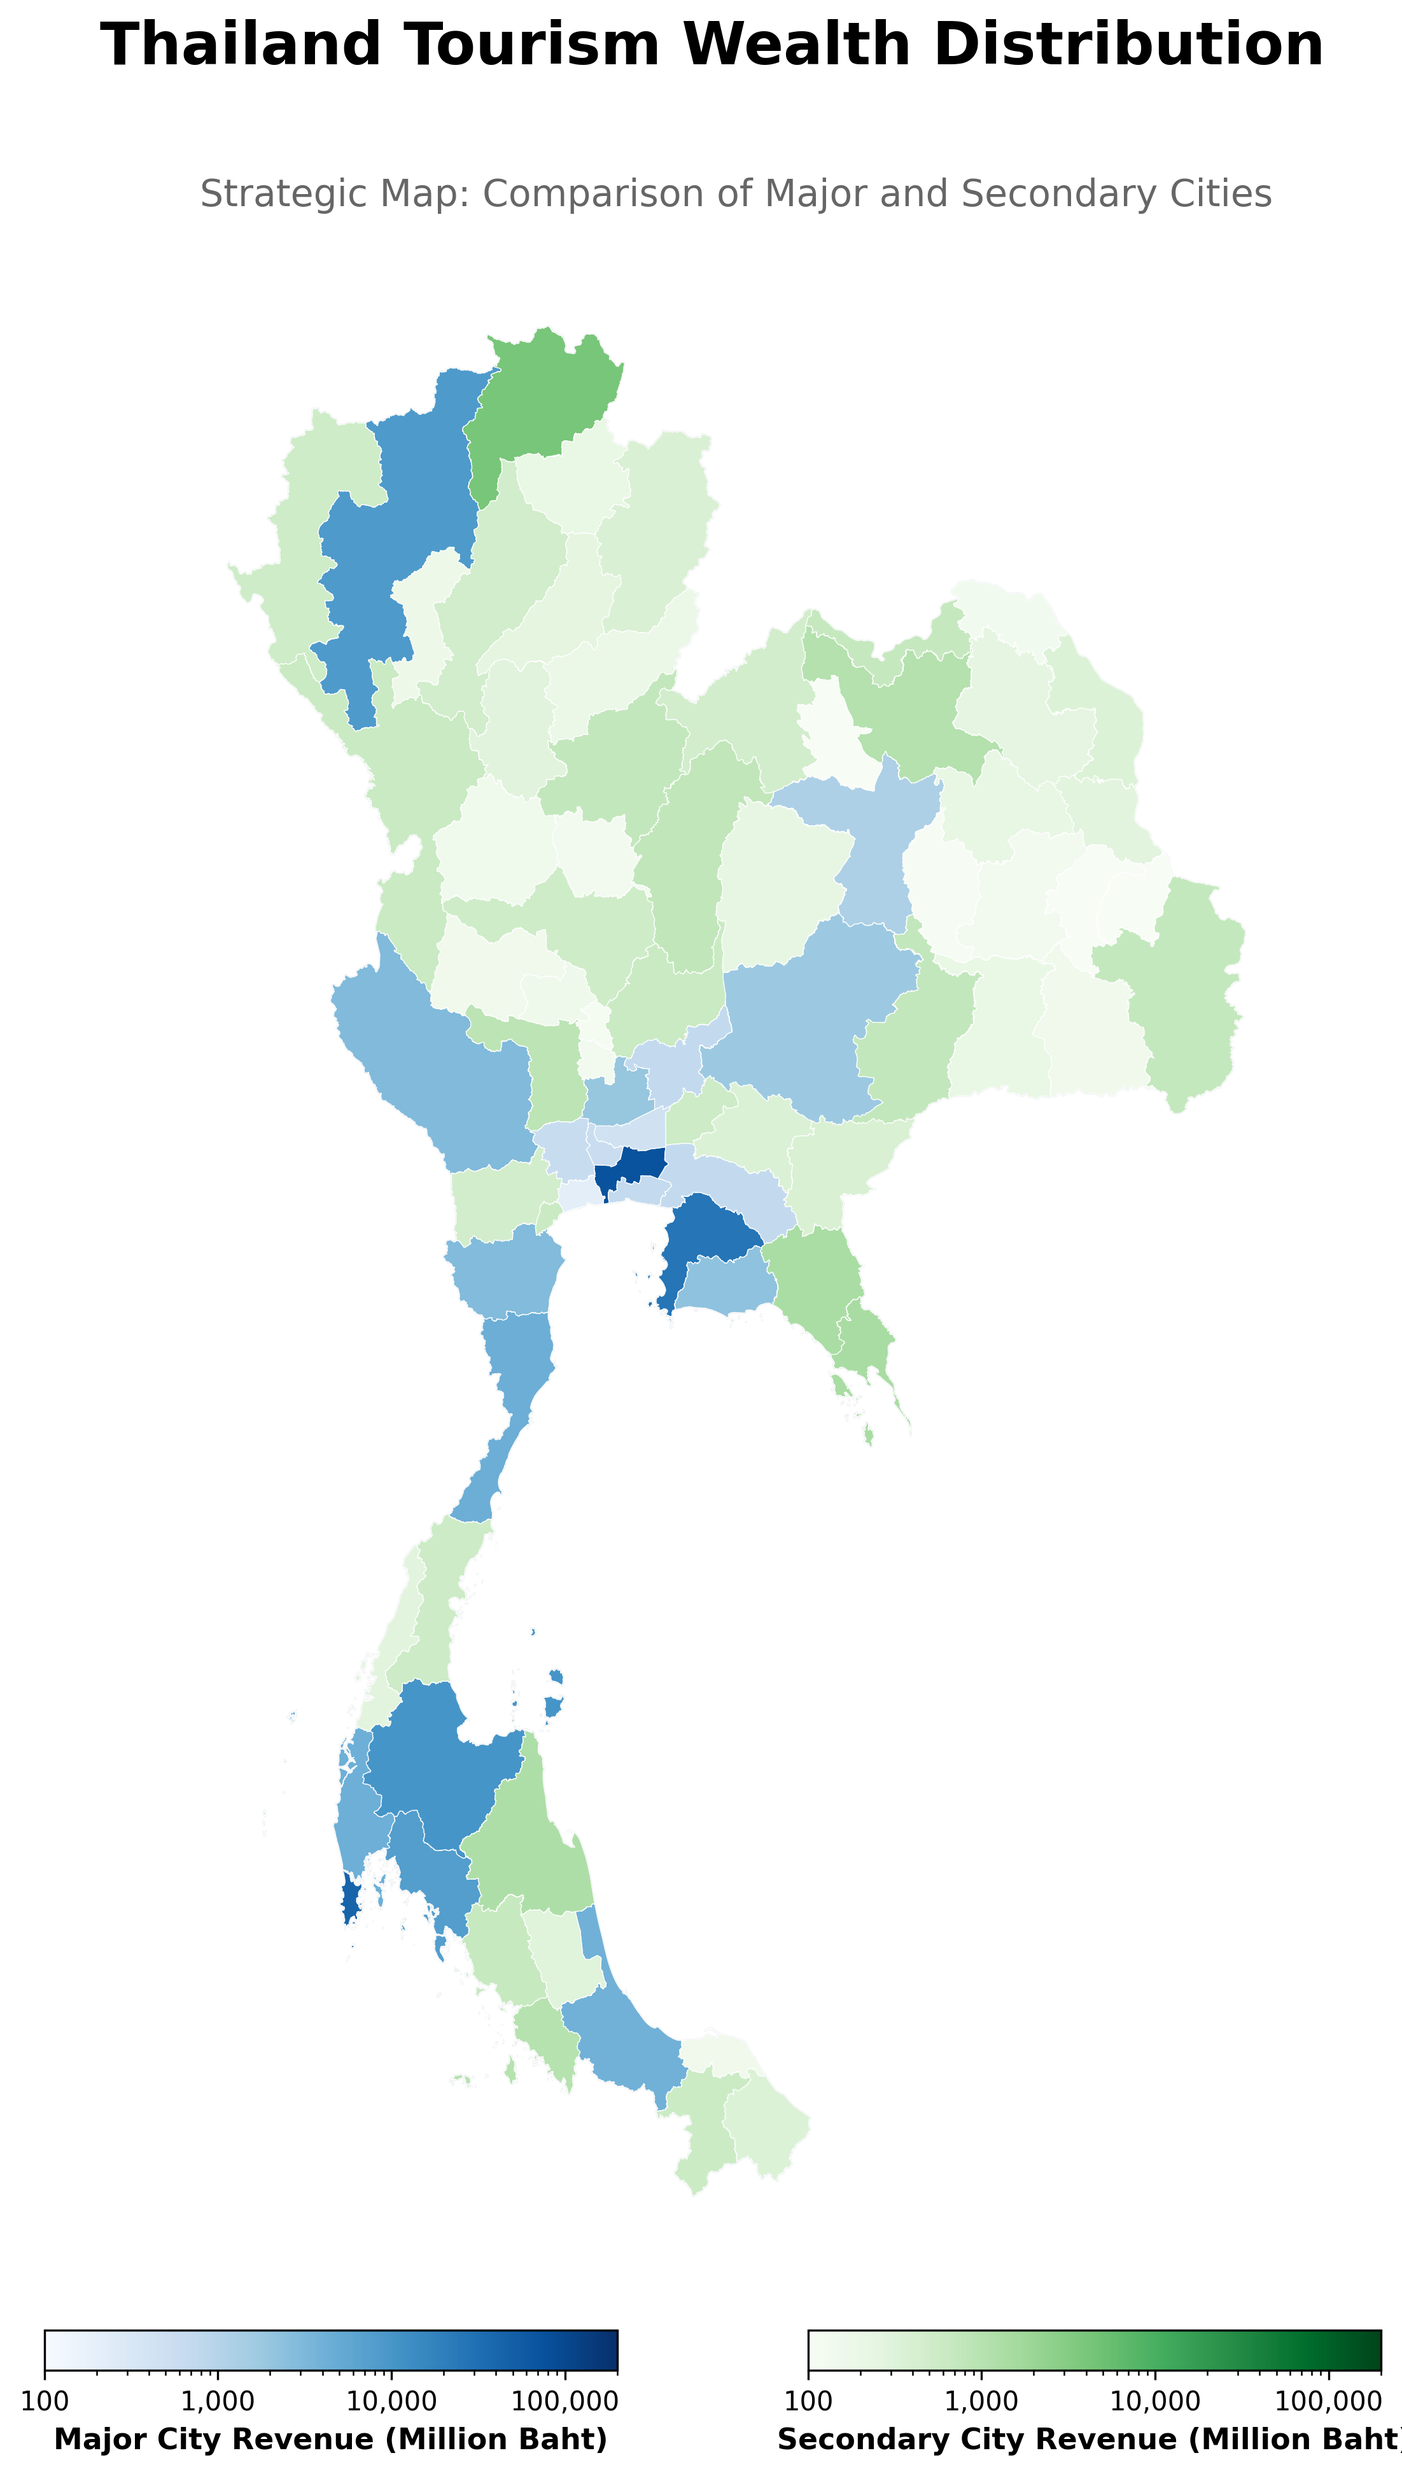
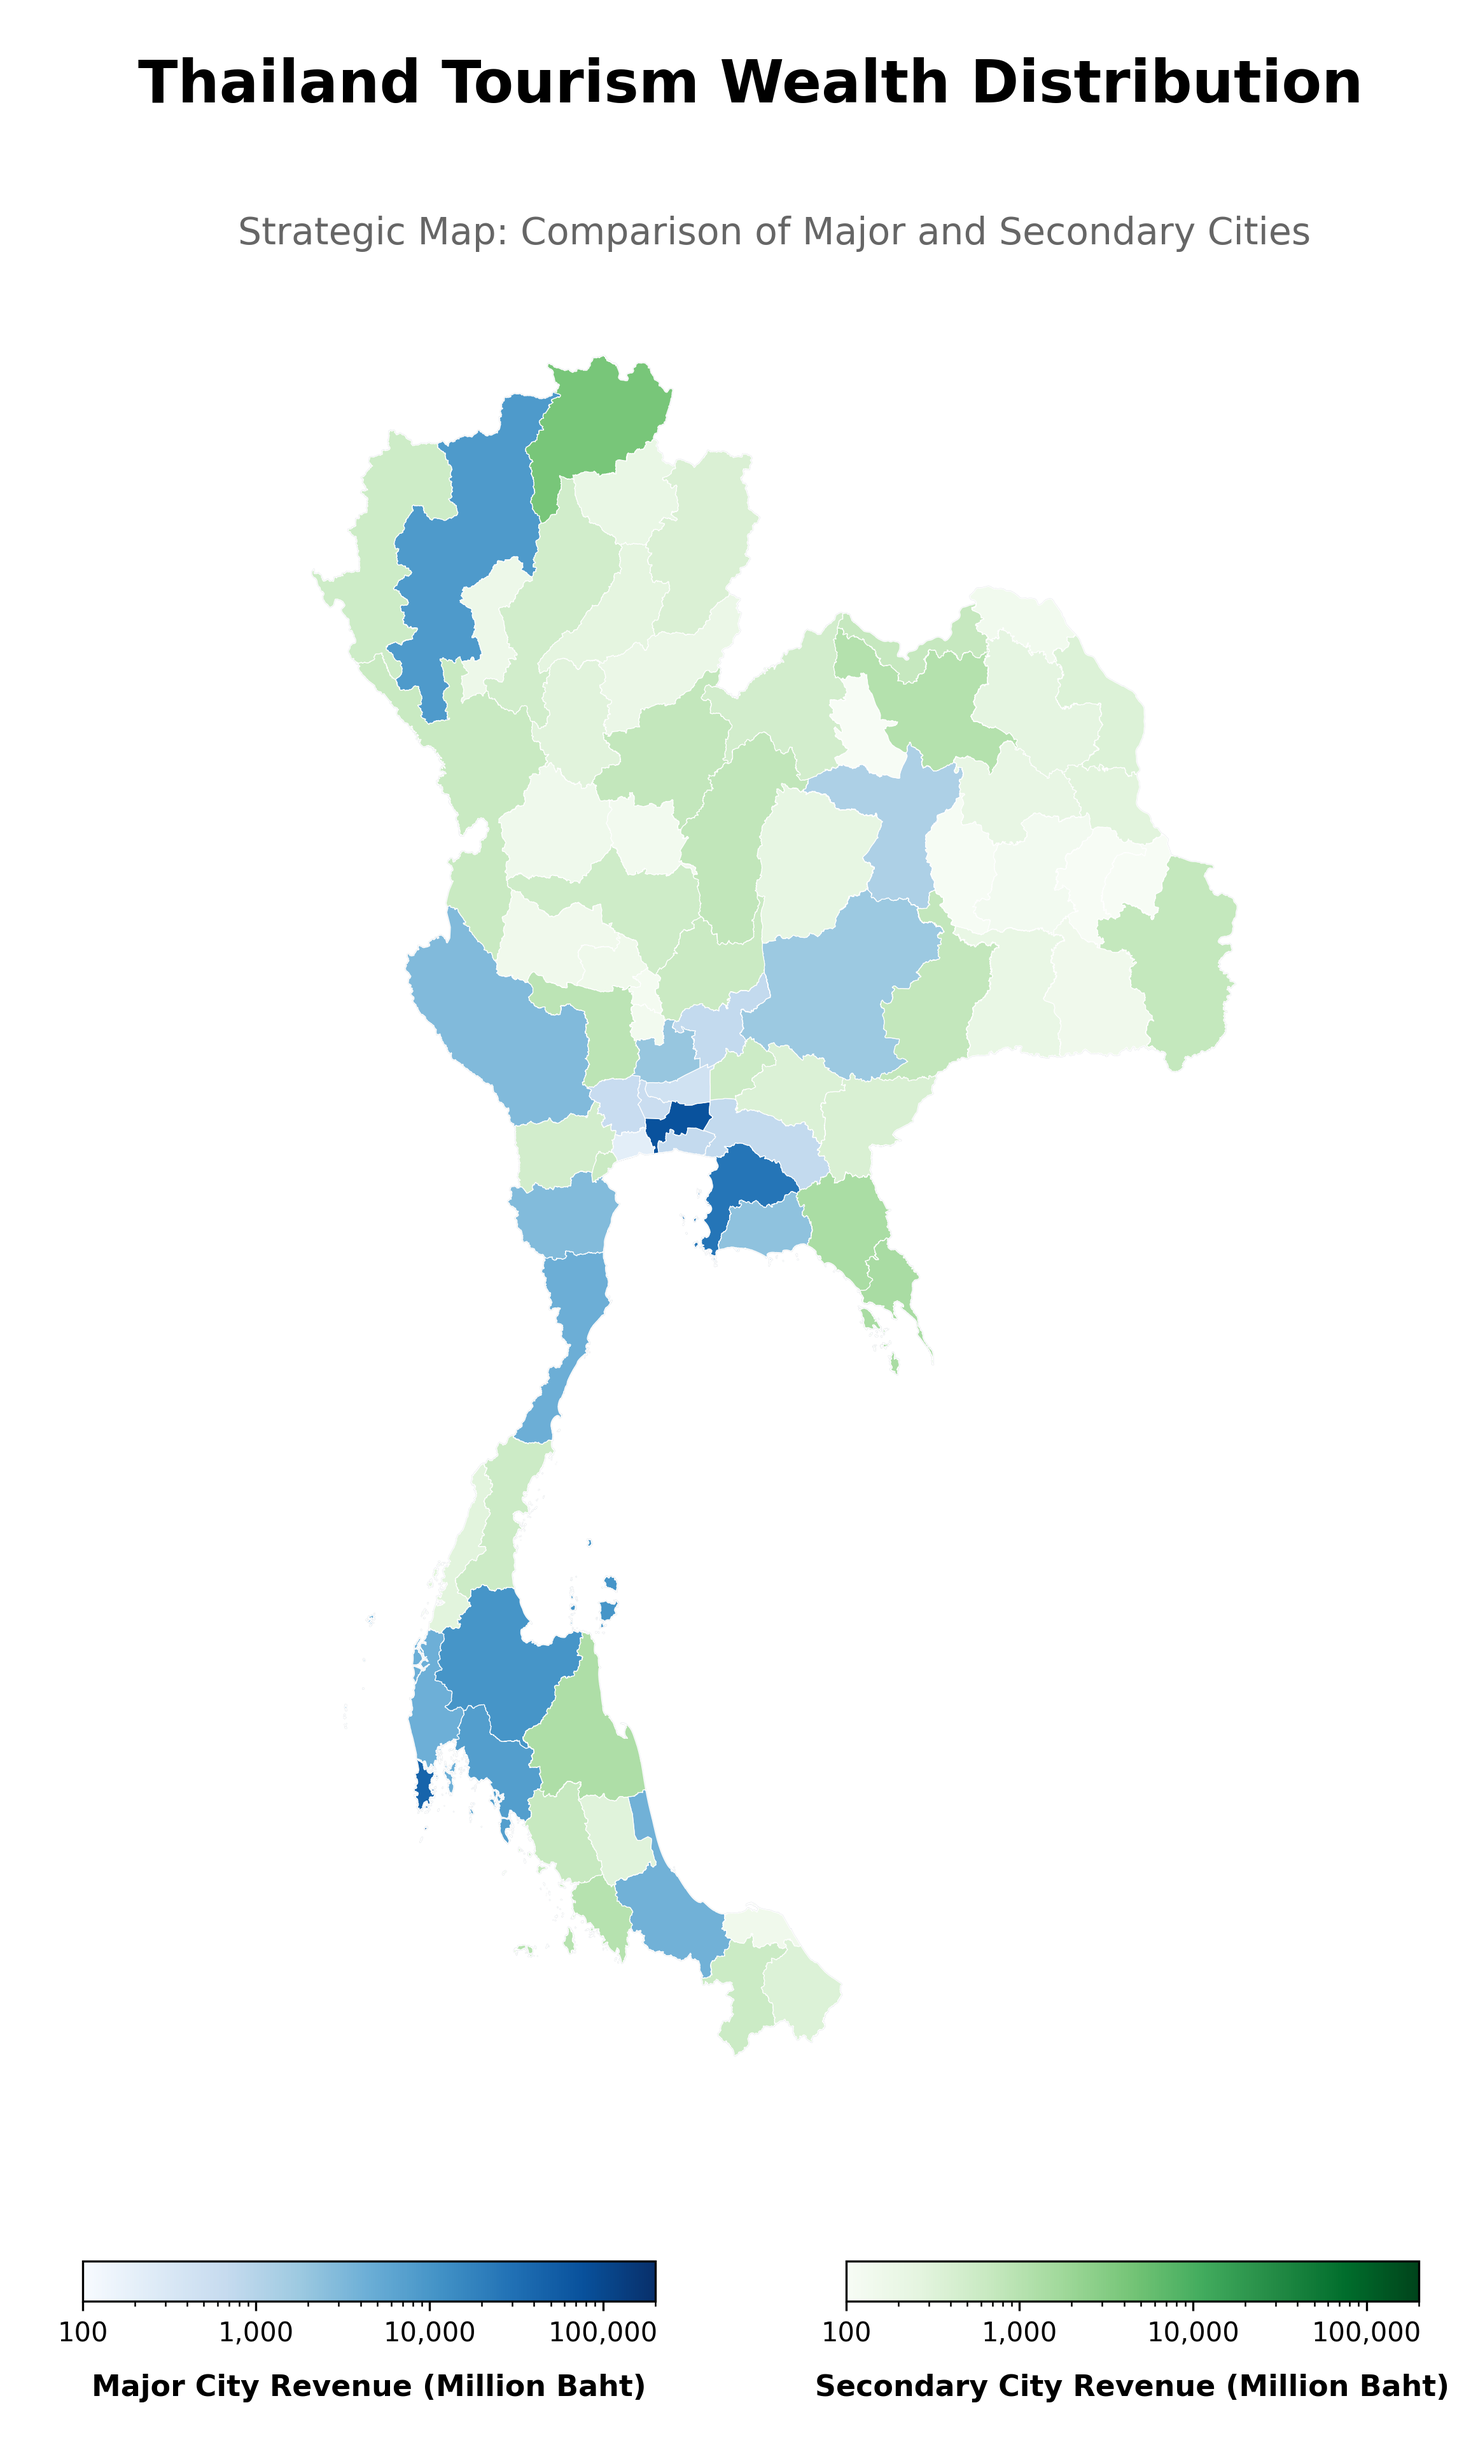
update cleaned data and script

diff --git a/visualizations/04.1_Real Wealth Generation.py b/visualizations/04.1_Real Wealth Generation.py
@@ -10,7 +10,7 @@ csv_path = 'data/processed/master_tourism_analysis.csv'
 geojson_path = 'data/raw/tha_admin1.geojson'
 output_path = 'visualizations/Figure_4_Final_Classic_Clean.png'
 
-# --- 2. LOAD & CLEAN  ---
+# --- 2. LOAD & CLEAN ---
 gdf = gpd.read_file(geojson_path)[['adm1_name', 'geometry']]
 df_raw = pd.read_csv(csv_path)
 
@@ -29,17 +29,19 @@ merged = gdf.merge(df, left_on='adm1_name', right_on='ProvinceEN', how='left')
 fig, ax = plt.subplots(figsize=(10, 14), facecolor='white')
 ax.axis('off')
 
+# 💡 เทคนิคสำคัญ: ดันก้นแผนที่ขึ้นเพื่อให้ Colorbar ด้านล่างไม่โดนเบียด
+plt.subplots_adjust(bottom=0.18) 
+
 # พื้นหลังสีเทาอ่อน
 gdf.plot(ax=ax, color='#f8f9fa', edgecolor='#dee2e6', linewidth=0.5)
 
-# 💡 ตั้งค่า Scale ให้ถึงแสนล้าน (100,000)
-vmin, vmax = 100, 200000 # ขยายไปถึง 2 แสนล้านเพื่อให้เห็นสเกล 1 แสนชัดๆ
+# ตั้งค่า Scale ให้ถึงแสนล้าน (100,000)
+vmin, vmax = 100, 200000 
 norm = colors.LogNorm(vmin=vmin, vmax=vmax)
 
 def comma_fmt(x, pos): return f'{int(x):,}'
 
 # 🔵 Major City (Blue) | 🟢 Secondary City (Green)
-# แผนที่แบบ "คลีน" ไม่ใส่ชื่อจังหวัดตามสั่งครับ
 major = merged[merged['City_type_EN'].str.contains('Major', case=False, na=False)]
 if not major.empty:
     major.plot(column='real_revenue', ax=ax, cmap='Blues', norm=norm, edgecolor='white', linewidth=0.3)
@@ -48,25 +50,26 @@ secondary = merged[merged['City_type_EN'].str.contains('Secon', case=False, na=F
 if not secondary.empty:
     secondary.plot(column='real_revenue', ax=ax, cmap='Greens', norm=norm, edgecolor='white', linewidth=0.3)
 
-# --- 4. COLORBARS (ชื่อแบบเก่าที่คุณชอบ + เลขมีคอมม่า) ---
-# เมืองหลัก
-cax1 = fig.add_axes([0.15, 0.08, 0.3, 0.015])
+# --- 4. COLORBARS (ปรับตำแหน่งใหม่ให้สูงขึ้น) ---
+# เมืองหลัก - ขยับ Y ขึ้นเป็น 0.12 (เดิม 0.08) เพื่อให้ Label ไม่หลุดขอบ
+cax1 = fig.add_axes([0.15, 0.12, 0.3, 0.015])
 cb1 = fig.colorbar(plt.cm.ScalarMappable(cmap='Blues', norm=norm), cax=cax1, orientation='horizontal')
 cb1.ax.xaxis.set_major_formatter(FuncFormatter(comma_fmt))
-# บังคับโชว์เลขหลัก 100, 1,000, 10,000, 100,000
 cb1.ax.xaxis.set_major_locator(LogLocator(base=10, subs=(1.0,)))
-cb1.set_label('Major City Revenue (Million Baht)', fontsize=11, fontweight='bold')
+# เพิ่ม labelpad เพื่อเว้นระยะห่างให้สวยงาม
+cb1.set_label('Major City Revenue (Million Baht)', fontsize=11, fontweight='bold', labelpad=10)
 
-# เมืองรอง
-cax2 = fig.add_axes([0.55, 0.08, 0.3, 0.015])
+# เมืองรอง - ขยับ Y ขึ้นเป็น 0.12
+cax2 = fig.add_axes([0.55, 0.12, 0.3, 0.015])
 cb2 = fig.colorbar(plt.cm.ScalarMappable(cmap='Greens', norm=norm), cax=cax2, orientation='horizontal')
 cb2.ax.xaxis.set_major_formatter(FuncFormatter(comma_fmt))
 cb2.ax.xaxis.set_major_locator(LogLocator(base=10, subs=(1.0,)))
-cb2.set_label('Secondary City Revenue (Million Baht)', fontsize=11, fontweight='bold')
+cb2.set_label('Secondary City Revenue (Million Baht)', fontsize=11, fontweight='bold', labelpad=10)
 
 # หัวข้อและชื่อกราฟย่อย
 plt.suptitle('Thailand Tourism Wealth Distribution', fontsize=22, fontweight='bold', y=0.96)
 ax.set_title('Strategic Map: Comparison of Major and Secondary Cities', fontsize=14, color='#666666', pad=10)
 
-plt.savefig(output_path, dpi=300, bbox_inches='tight')
-print(f"🎉 แผนที่ฉบับ Basic & Clean (77 จังหวัด) บันทึกแล้วที่: {output_path}")
+# ตอน Save ใส่ pad_inches เพิ่มอีกนิดเพื่อให้ชัวร์ว่าไม่โดนตัด
+plt.savefig(output_path, dpi=300, bbox_inches='tight', pad_inches=0.3)
+print(f"🎉 แผนที่ฉบับ Perfect Layout บันทึกแล้วที่: {output_path}")
